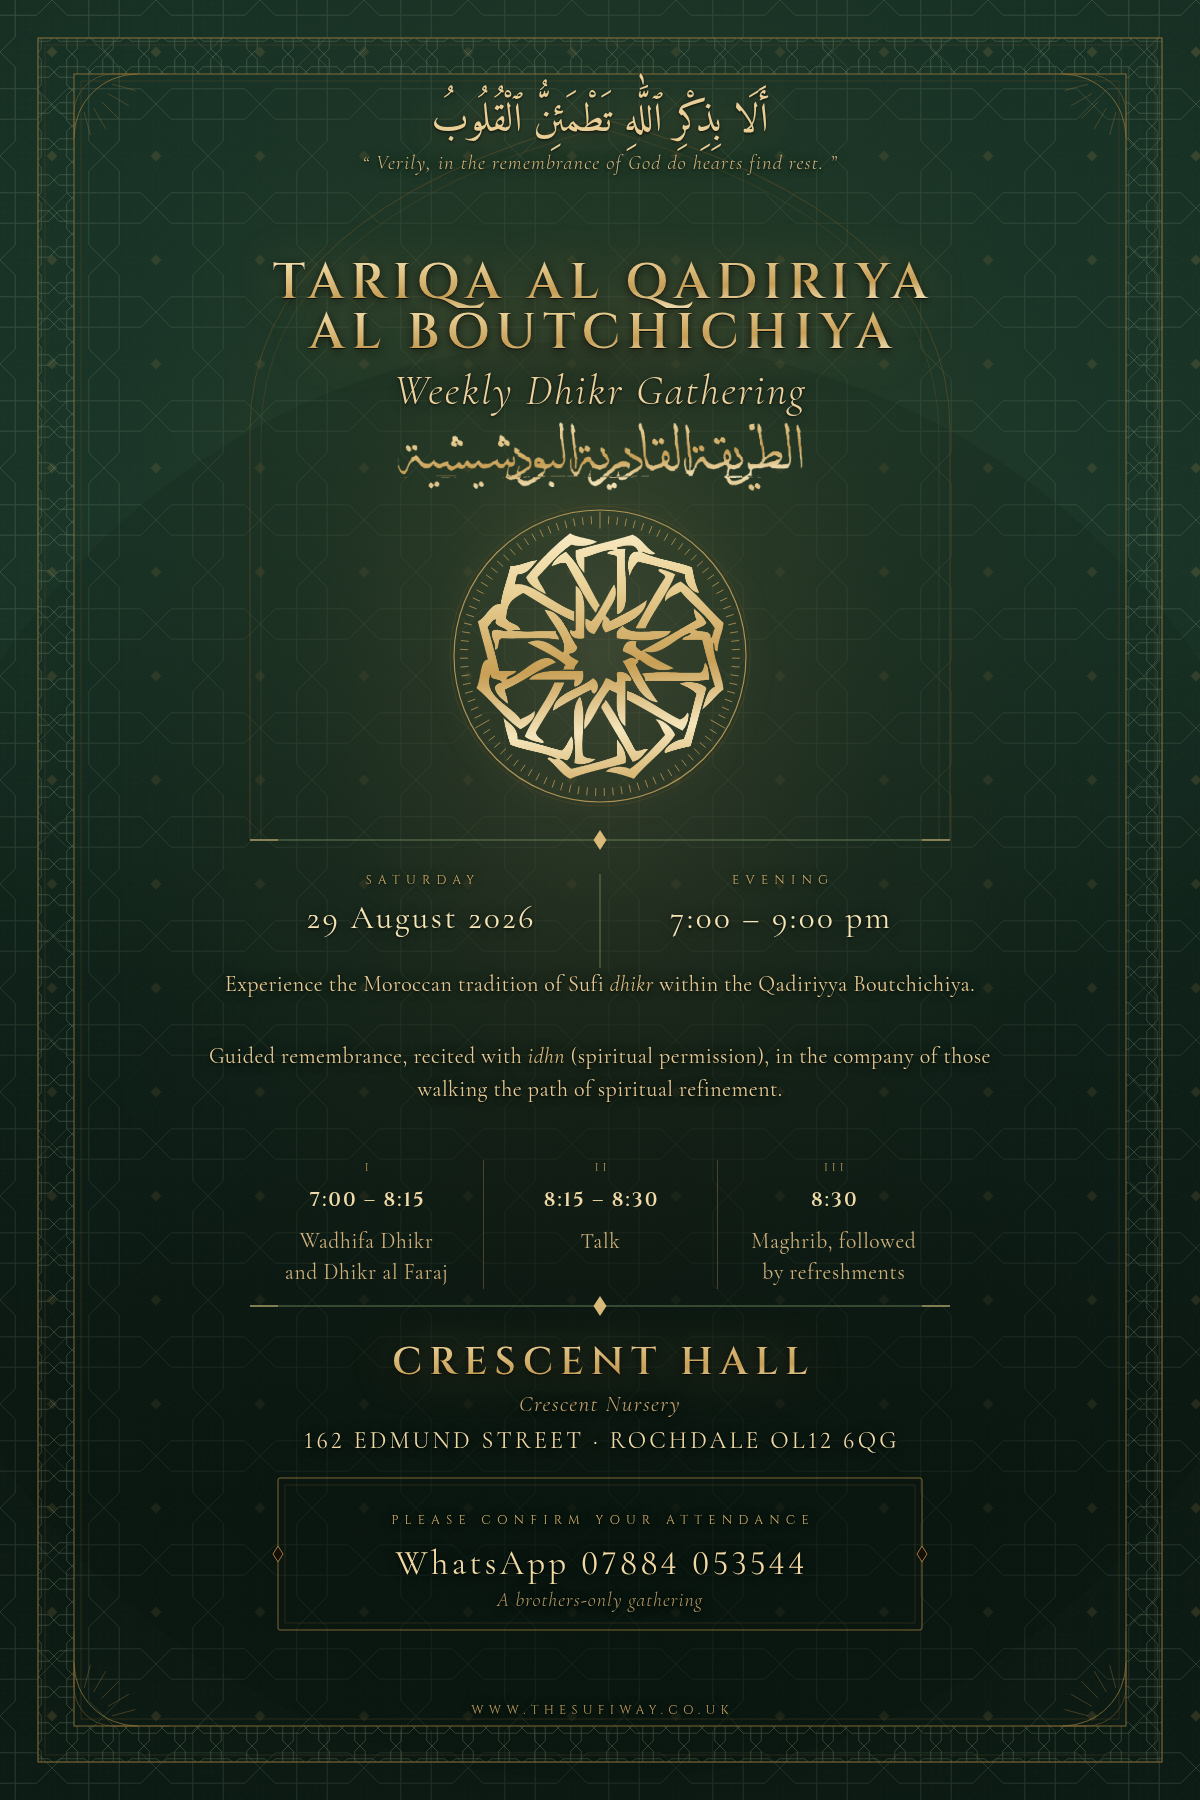
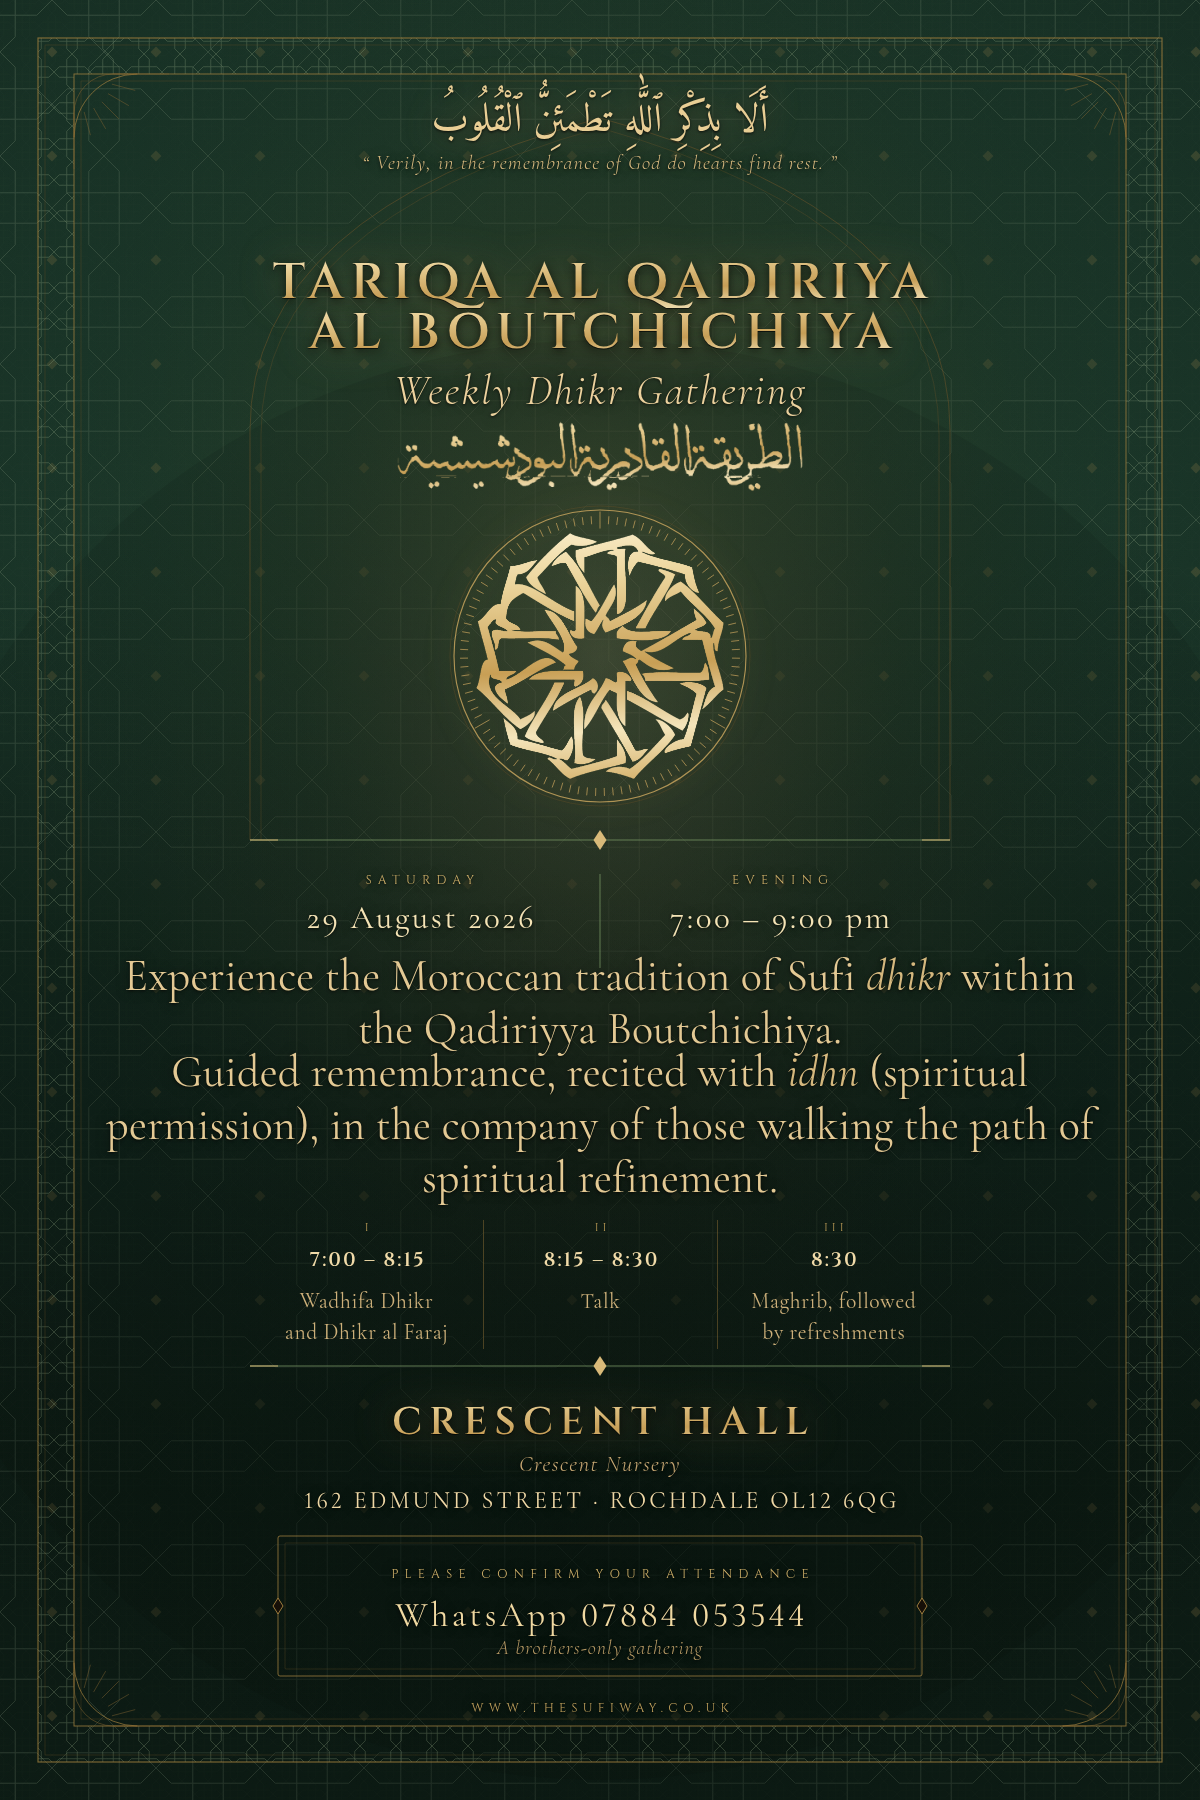
Double the body description text size
22px read too small next to the rest of the poster's type scale. Took it
to 44px (true 2x), widened the text column to 1000px so it still wraps
into readable measure, and reworked the whole block below it — the
programme columns, the venue block, the WhatsApp confirmation box, the
footer — tightening their spacing so everything still clears the inner
frame line with room to spare. Verified against all four colourways.

Claude-Session: https://claude.ai/code/session_01W3RXmfEcLks2fUKiCDKANu

Changed region(s): [[0.0925, 0.5289, 0.8942, 0.9333], [0.74, 0.9022, 0.7708, 0.9333], [0.7092, 0.8089, 0.74, 0.84]]

diff --git a/design/weekly-gathering/final/final.py b/design/weekly-gathering/final/final.py
@@ -139,8 +139,8 @@ html,body{{background:#000}}
   text-indent:.5em;color:{pal['lab']}}}
 .val{{font-family:Cormorant,serif;font-weight:400;font-size:33px;letter-spacing:.075em;
   text-indent:.075em;color:{pal['val']}}}
-.body{{font-family:Cormorant,serif;font-weight:400;font-size:22px;line-height:1.5;
-  letter-spacing:.02em;color:{pal['body']}}}
+.body{{font-family:Cormorant,serif;font-weight:400;font-size:44px;line-height:1.2;
+  letter-spacing:.005em;color:{pal['body']}}}
 .body em{{font-style:italic;color:{pal['gloss']}}}
 .pt{{font-variant-numeric:lining-nums;font-family:Cinzel,serif;font-weight:600;font-size:20px;letter-spacing:.1em;
   text-indent:.1em;color:{pal['pt']}}}
@@ -204,11 +204,11 @@ def frame_svg(pal, hero_extra):
   {v.rule(CX, v.ARCH_BASE, 350)}
   <line x1="{CX}" y1="{v.ARCH_BASE+34}" x2="{CX}" y2="{v.ARCH_BASE+128}" class="rule"/>
 
-  {v.rule(CX, 1306, 350)}
-  <rect x="{CX-322}" y="1478" width="644" height="152" rx="2" class="hair-3" stroke-width="1" fill="none"/>
-  <rect x="{CX-315}" y="1485" width="630" height="138" rx="1" class="hair-5" stroke-width="0.6" fill="none"/>
-  {v.lozenge(CX-322,1554,5,8,"fill-ink")}{v.lozenge(CX+322,1554,5,8,"fill-ink")}
-  {v.lozenge(CX-322,1554,5,8,"stroke-node")}{v.lozenge(CX+322,1554,5,8,"stroke-node")}
+  {v.rule(CX, 1366, 350)}
+  <rect x="{CX-322}" y="1536" width="644" height="140" rx="2" class="hair-3" stroke-width="1" fill="none"/>
+  <rect x="{CX-315}" y="1543" width="630" height="126" rx="1" class="hair-5" stroke-width="0.6" fill="none"/>
+  {v.lozenge(CX-322,1606,5,8,"fill-ink")}{v.lozenge(CX+322,1606,5,8,"fill-ink")}
+  {v.lozenge(CX-322,1606,5,8,"stroke-node")}{v.lozenge(CX+322,1606,5,8,"stroke-node")}
 </svg>
 <div class="grain"></div>
 '''
@@ -236,15 +236,15 @@ def bottom_html():
 <div class="at lab" style="top:{v.ARCH_BASE+32}px;left:{CX+10}px;width:340px">EVENING</div>
 <div class="at val" style="top:{v.ARCH_BASE+58}px;left:{CX+10}px;width:340px">7:00 – 9:00 pm</div>
 
-<div class="at body" style="top:968px;left:{CX-410}px;width:820px">
+<div class="at body" style="top:950px;left:{CX-500}px;width:1000px">
 Experience the Moroccan tradition of Sufi <em>dhikr</em> within the Qadiriyya Boutchichiya.
 </div>
-<div class="at body" style="top:1040px;left:{CX-410}px;width:820px">
+<div class="at body" style="top:1046px;left:{CX-500}px;width:1000px">
 Guided remembrance, recited with <em>idhn</em> (spiritual permission), in the company of
 those walking the path of spiritual refinement.
 </div>
 
-<div class="cols" style="top:1160px">
+<div class="cols" style="top:1220px">
   <div><div class="rn">I</div><div class="pt" style="margin-top:11px">7:00 – 8:15</div>
        <div class="pd" style="margin-top:13px">Wadhifa Dhikr<br>and Dhikr al&nbsp;Faraj</div></div>
   <div><div class="rn">II</div><div class="pt" style="margin-top:11px">8:15 – 8:30</div>
@@ -253,15 +253,15 @@ those walking the path of spiritual refinement.
        <div class="pd" style="margin-top:13px">Maghrib, followed<br>by refreshments</div></div>
 </div>
 
-<div class="at venue gold" style="top:1336px">CRESCENT HALL</div>
-<div class="at vsub" style="top:1390px">Crescent Nursery</div>
-<div class="at addr" style="top:1426px">162 EDMUND STREET · ROCHDALE OL12 6QG</div>
+<div class="at venue gold" style="top:1396px">CRESCENT HALL</div>
+<div class="at vsub" style="top:1450px">Crescent Nursery</div>
+<div class="at addr" style="top:1486px">162 EDMUND STREET · ROCHDALE OL12 6QG</div>
 
-<div class="at lab" style="top:1512px">PLEASE CONFIRM YOUR ATTENDANCE</div>
-<div class="at wa" style="top:1542px">WhatsApp 07884 053544</div>
-<div class="at note" style="top:1588px">A brothers-only gathering</div>
+<div class="at lab" style="top:1566px">PLEASE CONFIRM YOUR ATTENDANCE</div>
+<div class="at wa" style="top:1594px">WhatsApp 07884 053544</div>
+<div class="at note" style="top:1636px">A brothers-only gathering</div>
 
-<div class="at url" style="top:1702px">WWW.THESUFIWAY.CO.UK</div>
+<div class="at url" style="top:1700px">WWW.THESUFIWAY.CO.UK</div>
 '''
 
 def render(pal, out_name, scale=1):
